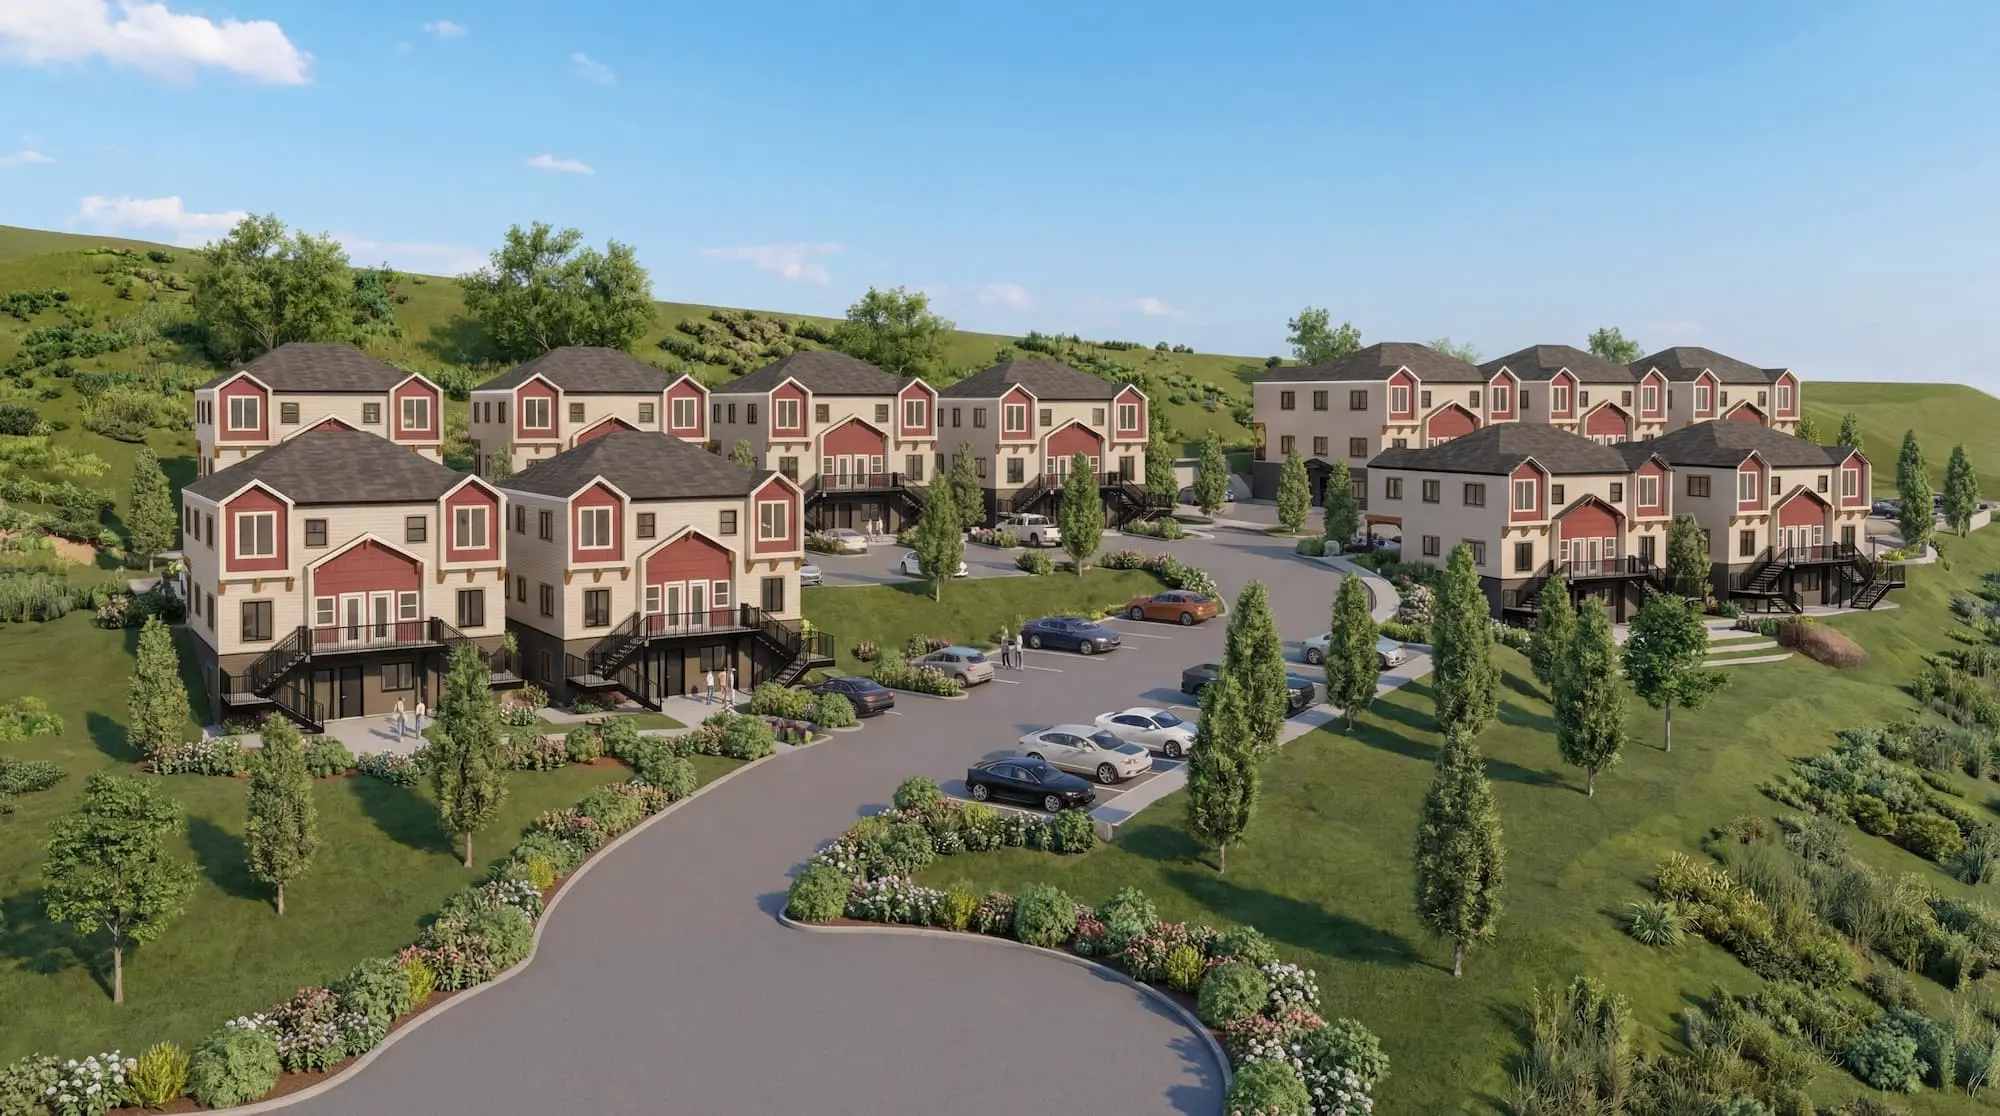
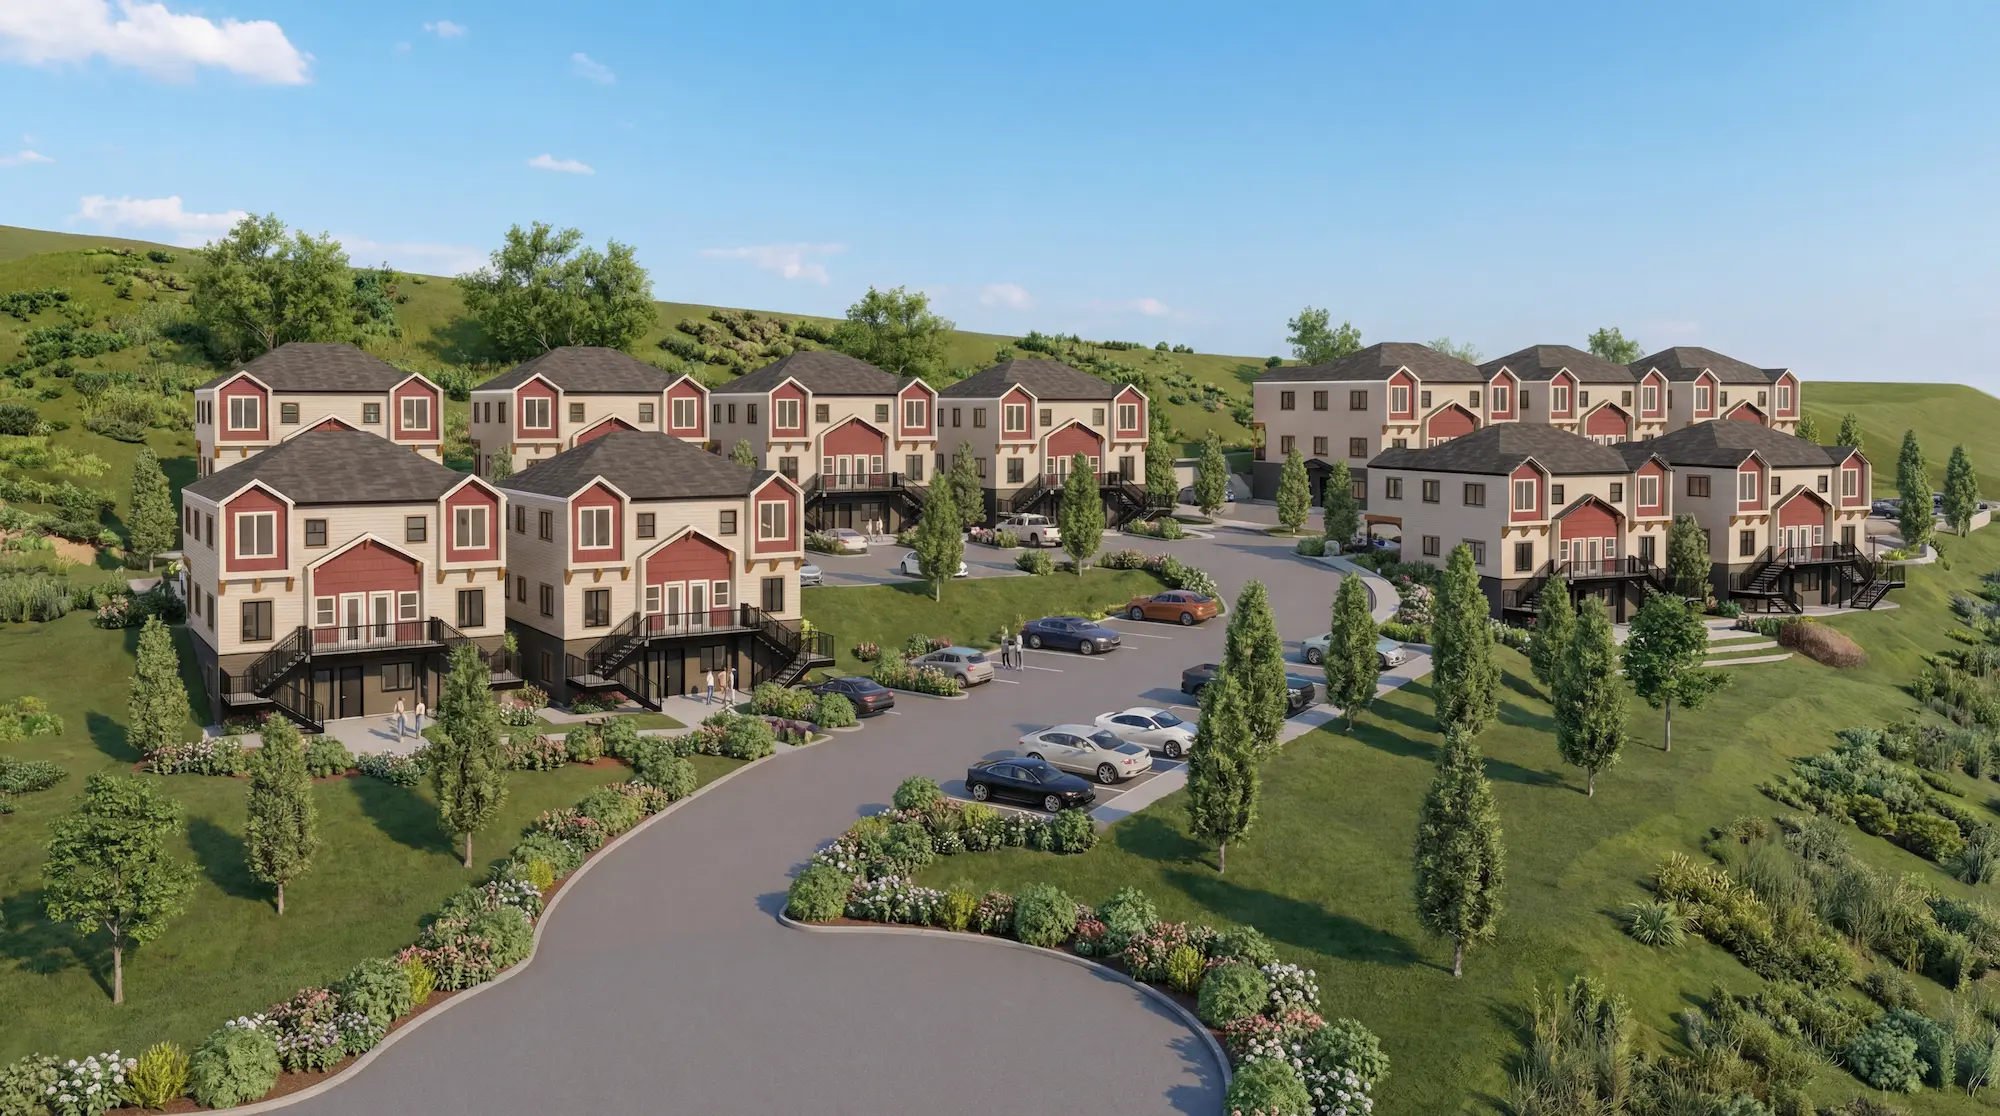
S

Changed region(s): [[0.527, 0.7312, 0.62, 0.7616], [0.62, 0.914, 0.651, 0.9444], [0.155, 0.914, 0.186, 0.9444]]

diff --git a/next-app/src/app/Merritt/HomeClient.tsx b/next-app/src/app/Merritt/HomeClient.tsx
@@ -104,7 +104,7 @@ export default function HomeClient() {
 
   // Form state
   const [formData, setFormData] = useState({
-    name: '',
+    fullName: '',
     email: '',
     phone: '',
     unitType: '',
@@ -251,10 +251,10 @@ export default function HomeClient() {
     console.log('Event:', e);
     
     // Validate required fields before proceeding
-    if (!formData.name || !formData.email) {
+    if (!formData.fullName || !formData.email) {
       console.error('Validation failed - missing required fields');
       setSubmitStatus('error');
-      alert('Please fill in all required fields (Name, Email)');
+      alert('Please fill in all required fields (Full Name, Email)');
       return;
     }
 
@@ -281,7 +281,7 @@ export default function HomeClient() {
       // Prepare JSON data matching the Google Apps Script expectations
       const jsonData = {
         formSource: 'Home Page',
-        name: formData.name,
+        fullName: formData.fullName,
         email: formData.email,
         phone: formData.phone || '',
         unitType: formData.unitType || '',
@@ -310,7 +310,7 @@ export default function HomeClient() {
         
         setSubmitStatus('success');
         setFormData({
-          name: '',
+          fullName: '',
           email: '',
           phone: '',
           unitType: '',
@@ -355,8 +355,8 @@ export default function HomeClient() {
       {/* All styles are in merritt-styles.css - scoped to .merritt-wrapper */}
 
       {/* EDITORIAL FRAME */}
-      <div className="fixed left-0 top-0 w-6 md:w-16 h-full bg-white z-[60]"></div>
-      <div className="fixed right-0 top-0 w-6 md:w-16 h-full bg-white z-[60]"></div>
+      <div className="hidden md:block fixed left-0 top-0 w-16 h-full bg-white z-[60]"></div>
+      <div className="hidden md:block fixed right-0 top-0 w-16 h-full bg-white z-[60]"></div>
 
       {/* REMOVED: <Navbar /> (It is now in layout.tsx) */}
 
@@ -386,7 +386,7 @@ export default function HomeClient() {
                     <span className="hidden md:inline">Discover Family-Sized Townhomes and Single-Level Living in Merritt's Newest Affordable Community</span>
                 </p>
             </div>
-            <Link href="/Merritt/contact" className="inline-block bg-white text-[#1a2621] px-6 md:px-8 py-3 md:py-4 text-xs md:text-sm tracking-[0.2em] uppercase font-black rounded-full shadow-xl shadow-black/20 hover:shadow-2xl hover:shadow-black/30 hover:bg-[#a6906c] hover:text-white transition-all duration-300 opacity-0 animate-fade-up glow-hover cursor-pointer" style={{ animationDelay: '0.8s', fontFamily: 'Inter, sans-serif' }}>
+            <Link href="/Merritt/contact" className="inline-block bg-transparent border-2 border-white text-white px-6 md:px-8 py-3 md:py-4 text-xs md:text-sm tracking-[0.2em] uppercase font-black rounded-full shadow-xl shadow-black/20 hover:shadow-2xl hover:shadow-black/30 hover:bg-white hover:text-[#1a2621] transition-all duration-300 opacity-0 animate-fade-up cursor-pointer" style={{ animationDelay: '0.8s', fontFamily: 'Inter, sans-serif' }}>
                 Register for Updates
             </Link>
         </div>
@@ -559,7 +559,7 @@ export default function HomeClient() {
                 <img
                   src="/merritt-assets/fullvillage.jpg?v=20241221"
                   alt="Merritt townhome community site in the scenic Nicola Valley landscape"
-                  className="w-full h-full object-cover scale-[1.15]"
+                  className="w-full h-full object-cover object-[25.7%_center] scale-[1.15]"
                 />
               </picture>
             </motion.div>
@@ -1060,30 +1060,28 @@ export default function HomeClient() {
                     <form onSubmit={handleSubmit} className="space-y-2 md:space-y-3">
                     <input
                         type="text"
-                        name="name"
-                        value={formData.name}
+                        name="fullName"
+                        value={formData.fullName}
                         onChange={handleInputChange}
                         placeholder="Full Name"
                         required
                         className="w-full bg-transparent border-b border-[#1a2621]/20 py-2 md:py-2 outline-none focus:border-[#a6906c] transition-colors placeholder-[#1a2621]/40 text-sm"/>
-                    <div className="grid grid-cols-1 md:grid-cols-2 gap-2 md:gap-3">
-                        <input
-                            type="email"
-                            name="email"
-                            value={formData.email}
-                            onChange={handleInputChange}
-                            placeholder="Email Address"
-                            required
-                            className="w-full bg-transparent border-b border-[#1a2621]/20 py-2 md:py-2 outline-none focus:border-[#a6906c] transition-colors placeholder-[#1a2621]/40 text-sm"/>
-                        <input
-                            type="tel"
-                            name="phone"
-                            value={formData.phone}
-                            onChange={handleInputChange}
-                            placeholder="Phone Number"
-                            required
-                            className="w-full bg-transparent border-b border-[#1a2621]/20 py-2 md:py-2 outline-none focus:border-[#a6906c] transition-colors placeholder-[#1a2621]/40 text-sm"/>
-                    </div>
+                    <input 
+                        type="email" 
+                        name="email"
+                        value={formData.email}
+                        onChange={handleInputChange}
+                        placeholder="Email Address" 
+                        required
+                        className="w-full bg-transparent border-b border-[#1a2621]/20 py-2 md:py-2 outline-none focus:border-[#a6906c] transition-colors placeholder-[#1a2621]/40 text-sm"/>
+                    <input 
+                        type="tel" 
+                        name="phone"
+                        value={formData.phone}
+                        onChange={handleInputChange}
+                        placeholder="Phone Number" 
+                        required
+                        className="w-full bg-transparent border-b border-[#1a2621]/20 py-2 md:py-2 outline-none focus:border-[#a6906c] transition-colors placeholder-[#1a2621]/40 text-sm"/>
                     <select 
                         name="unitType"
                         value={formData.unitType}
@@ -1096,16 +1094,16 @@ export default function HomeClient() {
                         <option value="Corner Unit">Corner Unit</option>
                         <option value="General Inquiry">General Inquiry</option>
                     </select>
-                    <select 
+                    <select
                         name="currentLocation"
                         value={formData.currentLocation}
                         onChange={handleInputChange}
                         required
                         className="w-full bg-transparent border-b border-[#1a2621]/20 py-3 md:py-3 outline-none focus:border-[#a6906c] transition-colors text-[#1a2621]/70 text-base md:text-sm">
                         <option value="">Current Location</option>
+                        <option value="Merritt">Merritt Area</option>
                         <option value="Kamloops Area">Kamloops Area</option>
                         <option value="Kelowna Area">Kelowna Area</option>
-                        <option value="Merritt Area">Merritt Area</option>
                         <option value="Vancouver Area">Vancouver Area</option>
                         <option value="Other Location">Other Location</option>
                     </select>

diff --git a/next-app/src/app/Merritt/interiors/AboutClient.tsx b/next-app/src/app/Merritt/interiors/AboutClient.tsx
@@ -8,10 +8,13 @@ import Footer from '../components/Footer';
 // Navbar is now in layout.tsx - no need to import here
 
 export default function AboutClient() {
+  // State for image cycling
+  const [communityViewImage, setCommunityViewImage] = useState(0);
+
   // #region agent log
   useEffect(() => {
     fetch('http://localhost:7244/ingest/91d1403b-2f36-44d5-9133-0422d099ea7f',{method:'POST',headers:{'Content-Type':'application/json'},body:JSON.stringify({location:'AboutClient.tsx:9',message:'Component mounted on CLIENT - INTERIOR PAGE',data:{timestamp:new Date().toISOString(),userAgent:window.navigator.userAgent,windowWidth:window.innerWidth,windowHeight:window.innerHeight,isMobile:window.innerWidth < 768},sessionId:'debug-session',runId:'client-side',hypothesisId:'H'})}).catch(()=>{});
-    
+
     // Move video-related logging to useEffect to avoid render-phase side effects
     const isMobile = window.innerWidth < 768;
     fetch('http://localhost:7244/ingest/91d1403b-2f36-44d5-9133-0422d099ea7f',{method:'POST',headers:{'Content-Type':'application/json'},body:JSON.stringify({location:'AboutClient.tsx:32',message:'About to render video - INTERIOR PAGE',data:{isMobile,windowWidth:window.innerWidth,userAgent:window.navigator.userAgent},sessionId:'debug-session',runId:'final-debug',hypothesisId:'G'})}).catch(()=>{});
@@ -22,8 +25,8 @@ export default function AboutClient() {
     <div className="bg-[#f9f8f6] text-[#1a2621] font-sans antialiased min-h-screen">
 
       {/* Editorial frame */}
-      <div className="fixed left-0 top-0 w-6 md:w-16 h-full bg-white z-[60]"></div>
-      <div className="fixed right-0 top-0 w-6 md:w-16 h-full bg-white z-[60]"></div>
+      <div className="hidden md:block fixed left-0 top-0 w-16 h-full bg-white z-[60]"></div>
+      <div className="hidden md:block fixed right-0 top-0 w-16 h-full bg-white z-[60]"></div>
 
       {/* Navbar is now in layout.tsx */}
 
@@ -108,19 +111,39 @@ export default function AboutClient() {
                 features: ['Potential island workspaces', 'Potential dining areas', 'Potential premium appliances']
               },
               {
-                image: '/merritt-assets/Merritt%20rendering.jpg',
+                images: ['/merritt-assets/Merritt%20rendering.jpg', '/merritt-assets/mountainviews.jpg'],
                 title: 'Community Views',
                 description: 'Potential beautiful mountain and valley views from select units (subject to final design and location).',
-                features: ['Potential scenic outlook', 'Potential natural light', 'Potential peaceful ambiance']
+                features: ['Potential scenic outlook', 'Potential natural light', 'Potential peaceful ambiance'],
+                isCommunityViews: true
               }
             ].map((interior, index) => (
-              <div key={interior.title} className="group relative overflow-hidden rounded-xl sm:rounded-2xl shadow-lg sm:shadow-xl hover:shadow-2xl transition-all duration-500 bg-white border border-[#e6e2da]">
+              <div key={interior.title} className={`group relative overflow-hidden rounded-xl sm:rounded-2xl shadow-lg sm:shadow-xl hover:shadow-2xl transition-all duration-500 bg-white border border-[#e6e2da] ${interior.isCommunityViews ? 'cursor-pointer' : ''}`}
+                   onClick={interior.isCommunityViews ? () => setCommunityViewImage((prev) => (prev + 1) % interior.images.length) : undefined}
+                   onTouchEnd={interior.isCommunityViews ? (e) => {
+                     e.preventDefault();
+                     setCommunityViewImage((prev) => (prev + 1) % interior.images.length);
+                   } : undefined}>
                 <div className="relative h-48 sm:h-56 md:h-64 overflow-hidden">
                   <img
-                    src={interior.image}
+                    src={interior.isCommunityViews ? interior.images[communityViewImage] : interior.image}
                     alt={interior.title}
                     className="w-full h-full object-cover group-hover:scale-110 transition-transform duration-700"
                   />
+                  {interior.isCommunityViews && (
+                    <>
+                      <div className="absolute top-4 left-4">
+                        <div className="w-20 h-8 bg-[#a6906c] rounded-full flex items-center justify-center text-white font-bold text-xs shadow-lg">
+                          {communityViewImage === 0 ? 'RENDERING' : 'MOUNTAIN'}
+                        </div>
+                      </div>
+                      <div className="absolute top-4 right-4 md:hidden">
+                        <div className="bg-black/50 text-white text-xs px-2 py-1 rounded-full backdrop-blur-sm">
+                          Tap to cycle
+                        </div>
+                      </div>
+                    </>
+                  )}
                   <div className="absolute inset-0 bg-gradient-to-t from-black/60 via-transparent to-transparent opacity-0 group-hover:opacity-100 transition-opacity duration-500"></div>
                   <div className="absolute bottom-0 left-0 right-0 p-4 sm:p-6 text-white transform translate-y-full group-hover:translate-y-0 transition-transform duration-500">
                     <h3 className="font-serif text-lg sm:text-xl font-bold mb-1 sm:mb-2">{interior.title}</h3>

diff --git a/next-app/src/app/Merritt/contact/ContactClient.tsx b/next-app/src/app/Merritt/contact/ContactClient.tsx
@@ -13,7 +13,7 @@ import { Turnstile } from '@/components/Turnstile';
 export default function ContactClient() {
   // Form state
   const [formData, setFormData] = useState({
-    name: '',
+    fullName: '',
     email: '',
     phone: '',
     unitType: '',
@@ -37,10 +37,10 @@ export default function ContactClient() {
     console.log('Event:', e);
     
     // Validate required fields before proceeding
-    if (!formData.name || !formData.email) {
+    if (!formData.fullName || !formData.email) {
       console.error('Validation failed - missing required fields');
       setSubmitStatus('error');
-      alert('Please fill in all required fields (Name, Email)');
+      alert('Please fill in all required fields (Full Name, Email)');
       return;
     }
 
@@ -67,7 +67,7 @@ export default function ContactClient() {
       // Prepare JSON data matching the Google Apps Script expectations
       const jsonData = {
         formSource: 'Contact Page',
-        name: formData.name,
+        fullName: formData.fullName,
         email: formData.email,
         phone: formData.phone || '',
         unitType: formData.unitType || '',
@@ -96,7 +96,7 @@ export default function ContactClient() {
         
         setSubmitStatus('success');
         setFormData({
-          name: '',
+          fullName: '',
           email: '',
           phone: '',
           unitType: '',
@@ -236,14 +236,14 @@ export default function ContactClient() {
                 <p className="text-[#1a2621]/50 text-sm mb-6 md:mb-8">Join our interest list for affordable housing in Merritt, BC.</p>
 
                 <form onSubmit={handleSubmit} className="space-y-4 md:space-y-5">
-                        <input
-                            type="text"
-                            name="name"
-                            value={formData.name}
-                            onChange={handleInputChange}
-                            placeholder="Full Name"
-                            required
-                            className="w-full bg-transparent border-b border-[#1a2621]/20 py-3 outline-none focus:border-[#a6906c] transition-colors placeholder-[#1a2621]/40 text-sm"/>
+                    <input
+                        type="text"
+                        name="fullName"
+                        value={formData.fullName}
+                        onChange={handleInputChange}
+                        placeholder="Full Name"
+                        required
+                        className="w-full bg-transparent border-b border-[#1a2621]/20 py-3 outline-none focus:border-[#a6906c] transition-colors placeholder-[#1a2621]/40 text-sm"/>
                     <input 
                         type="email" 
                         name="email"
@@ -279,9 +279,9 @@ export default function ContactClient() {
                         required
                         className="w-full bg-transparent border-b border-[#1a2621]/20 py-4 outline-none focus:border-[#a6906c] transition-colors text-[#1a2621]/70 text-sm">
                         <option value="">Current Location</option>
+                        <option value="Merritt">Merritt Area</option>
                         <option value="Kamloops Area">Kamloops Area</option>
                         <option value="Kelowna Area">Kelowna Area</option>
-                        <option value="Merritt Area">Merritt Area</option>
                         <option value="Vancouver Area">Vancouver Area</option>
                         <option value="Other Location">Other Location</option>
                     </select>

diff --git a/next-app/src/app/Merritt/relocation/vancouver/page.tsx b/next-app/src/app/Merritt/relocation/vancouver/page.tsx
@@ -14,8 +14,8 @@ export default function VancouverRelocationPage() {
   return (
     <div className="bg-[#f9f8f6] text-[#1a2621] font-sans antialiased min-h-screen">
       {/* Editorial frame */}
-      <div className="fixed left-0 top-0 w-6 md:w-16 h-full bg-white z-[60]"></div>
-      <div className="fixed right-0 top-0 w-6 md:w-16 h-full bg-white z-[60]"></div>
+      <div className="hidden md:block fixed left-0 top-0 w-16 h-full bg-white z-[60]"></div>
+      <div className="hidden md:block fixed right-0 top-0 w-16 h-full bg-white z-[60]"></div>
 
       {/* Navbar is now in layout.tsx */}
       <main>

diff --git a/next-app/src/app/Merritt/relocation/kamloops/page.tsx b/next-app/src/app/Merritt/relocation/kamloops/page.tsx
@@ -14,8 +14,8 @@ export default function KamloopsRelocationPage() {
   return (
     <div className="bg-[#f9f8f6] text-[#1a2621] font-sans antialiased min-h-screen">
       {/* Editorial frame */}
-      <div className="fixed left-0 top-0 w-6 md:w-16 h-full bg-white z-[60]"></div>
-      <div className="fixed right-0 top-0 w-6 md:w-16 h-full bg-white z-[60]"></div>
+      <div className="hidden md:block fixed left-0 top-0 w-16 h-full bg-white z-[60]"></div>
+      <div className="hidden md:block fixed right-0 top-0 w-16 h-full bg-white z-[60]"></div>
 
       {/* Navbar is now in layout.tsx */}
       <main>

diff --git a/next-app/src/app/Merritt/relocation/kelowna/page.tsx b/next-app/src/app/Merritt/relocation/kelowna/page.tsx
@@ -14,8 +14,8 @@ export default function KelownaRelocationPage() {
   return (
     <div className="bg-[#f9f8f6] text-[#1a2621] font-sans antialiased min-h-screen">
       {/* Editorial frame */}
-      <div className="fixed left-0 top-0 w-6 md:w-16 h-full bg-white z-[60]"></div>
-      <div className="fixed right-0 top-0 w-6 md:w-16 h-full bg-white z-[60]"></div>
+      <div className="hidden md:block fixed left-0 top-0 w-16 h-full bg-white z-[60]"></div>
+      <div className="hidden md:block fixed right-0 top-0 w-16 h-full bg-white z-[60]"></div>
 
       {/* Navbar is now in layout.tsx */}
       <main>

diff --git a/next-app/src/app/Merritt/neighbourhood/NeighbourhoodClient.tsx b/next-app/src/app/Merritt/neighbourhood/NeighbourhoodClient.tsx
@@ -211,8 +211,8 @@ export default function NeighbourhoodClient() {
   return (
     <div className="bg-[#F9F7F2] text-[#14312C] font-sans antialiased min-h-screen">
       {/* Editorial frame */}
-      <div className="fixed left-0 top-0 w-6 md:w-16 h-full bg-white z-[60]"></div>
-      <div className="fixed right-0 top-0 w-6 md:w-16 h-full bg-white z-[60]"></div>
+      <div className="hidden md:block fixed left-0 top-0 w-16 h-full bg-white z-[60]"></div>
+      <div className="hidden md:block fixed right-0 top-0 w-16 h-full bg-white z-[60]"></div>
 
       {/* Navbar is now in layout.tsx */}
 
